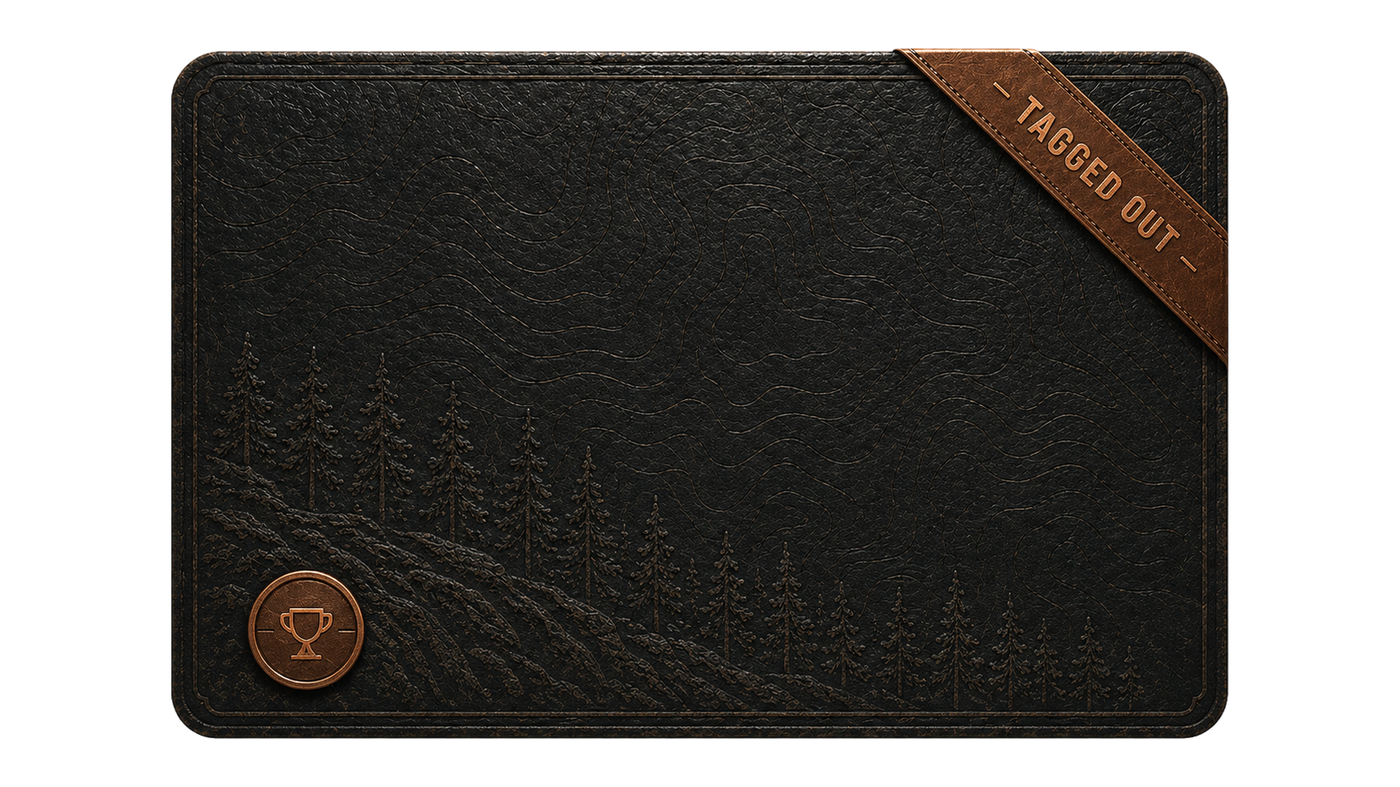
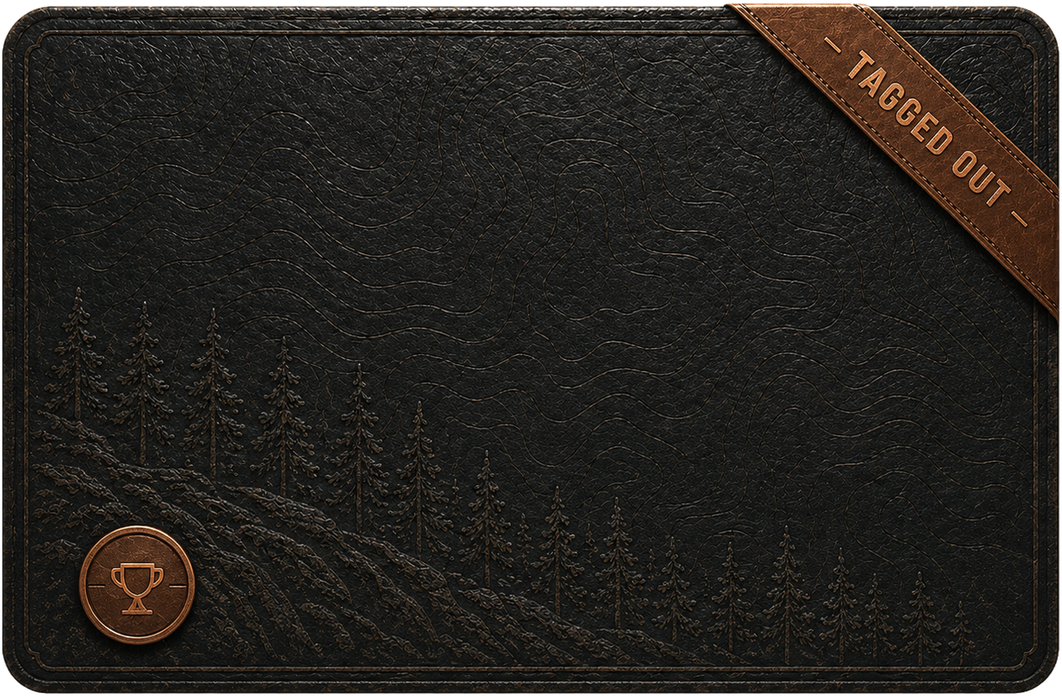
v27.0a.21: trim transparent edges from card skin PNGs (was ~143px L/R + ~45px T/B of alpha=0 margin showing the fallback color through)

diff --git a/src/app/layout.tsx b/src/app/layout.tsx
@@ -8,7 +8,7 @@ import RecoveryHandler from '@/components/RecoveryHandler'
 // Bump on each release that ships new static assets so installed PWAs
 // know to refresh. Visible in the rendered HTML as <meta name="bb-build">
 // for easy curl/view-source verification of which build a client is on.
-const BUILD_TAG = 'v27.0a.20-card-skin-swap'
+const BUILD_TAG = 'v27.0a.21-skin-trim-transparent-edges'
 
 const barlow = Barlow({
   variable: '--font-barlow',
